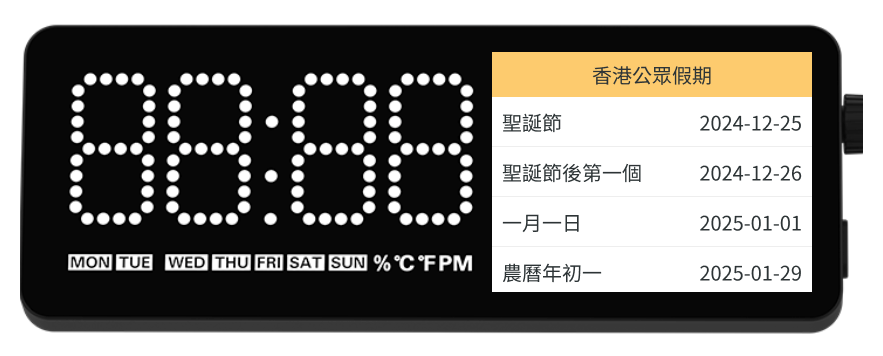
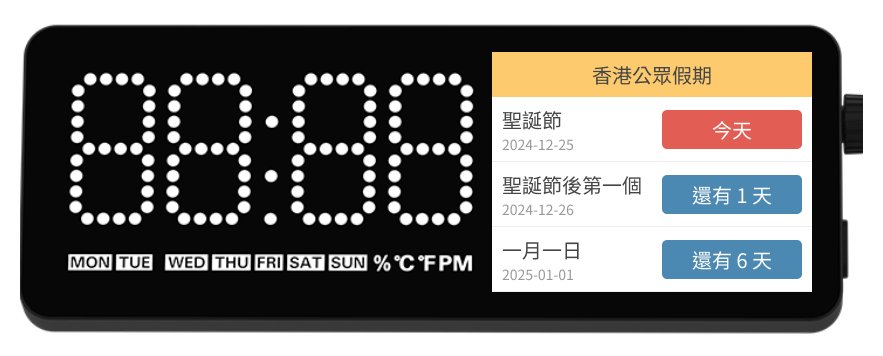
feat(public-holidays): add holiday contdown

diff --git a/public-holidays/src/__init__.py b/public-holidays/src/__init__.py
@@ -1,5 +1,6 @@
 import lvgl as lv
 import clocktime
+import utime
 import ujson
 import net
 import urequests
@@ -34,7 +35,7 @@ previous_focus_index = -1
 def reset_style(style_object):
     style_object.set_bg_opa(lv.OPA.COVER)
     style_object.set_bg_color(lv.color_hex(0xFFFFFF))
-    style_object.set_text_color(lv.color_hex(0x2D3436))
+    style_object.set_text_color(lv.color_hex(0x454545))
     style_object.set_border_width(0)
     style_object.set_pad_all(0)
     style_object.set_radius(0)
@@ -46,7 +47,7 @@ header_style = lv.style_t()
 header_style.init()
 reset_style(header_style)
 header_style.set_bg_color(lv.color_hex(0xFDCB6E))
-header_style.set_text_color(lv.color_hex(0x2D3436))
+header_style.set_text_color(lv.color_hex(0x454545))
 header_style.set_pad_all(12)
 
 # List style
@@ -54,11 +55,18 @@ list_style = lv.style_t()
 list_style.init()
 reset_style(list_style)
 
-# item style
+# Container style
+container_style = lv.style_t()
+container_style.init()
+reset_style(container_style)
+container_style.set_bg_opa(lv.OPA.TRANSP)
+
+# Item style
 item_style = lv.style_t()
 item_style.init()
 reset_style(item_style)
-item_style.set_pad_all(10)
+item_style.set_pad_ver(5)
+item_style.set_pad_hor(10)
 item_style.set_border_color(lv.color_hex(0xEEEEEE))
 item_style.set_border_width(2)
 item_style.set_border_side(lv.BORDER_SIDE.BOTTOM)
@@ -67,6 +75,25 @@ item_style.set_border_side(lv.BORDER_SIDE.BOTTOM)
 focused_item_style = lv.style_t()
 focused_item_style.init()
 focused_item_style.set_bg_color(lv.color_hex(0xf0f0f0))
+
+# Chips style
+chip_style = lv.style_t()
+chip_style.init()
+reset_style(chip_style)
+chip_style.set_radius(5)
+chip_style.set_pad_all(10)
+chip_style.set_text_align(lv.TEXT_ALIGN.CENTER)
+chip_style.set_bg_color(lv.color_hex(0x000000))
+chip_style.set_text_color(lv.color_hex(0xffffff))
+
+# Remarks style
+remarks_style = lv.style_t()
+remarks_style.init()
+reset_style(remarks_style)
+remarks_style.set_pad_ver(2)
+remarks_style.set_bg_opa(lv.OPA.TRANSP)
+remarks_style.set_text_color(lv.color_hex(0x999999))
+remarks_style.set_text_font(lv.font_ascii_14)
 
 # ---------- Functions ----------
 def dprint(msg: str) -> None:
@@ -202,7 +229,12 @@ def focus_item(index: int) -> None:
     previous_focus_index = index
 
 def get_current_date() -> int:
-    """Get and return current date as YYYYMMDD format"""
+    """
+    Get and return current date as YYYYMMDD format
+
+    Returns:
+        int: Current date in YYYYMMDD format.
+    """
     current_time = clocktime.datetime()
     year = current_time[0]
     month = current_time[1]
@@ -210,6 +242,12 @@ def get_current_date() -> int:
 
     formatted_date = '{:04d}{:02d}{:02d}'.format(year, month, day)
     return int(formatted_date)
+
+def days_between(date1: int, date2: int):
+    time_info = (0, 0, 0, 0, 0)
+    datetime1 = (date1 // 10000, date1 % 10000 // 100, date1 % 100) + time_info
+    datetime2 = (date2 // 10000, date2 % 10000 // 100, date2 % 100) + time_info
+    return abs(utime.mktime(datetime1) // (24 * 3600) - utime.mktime(datetime2) // (24 * 3600))
 
 def fetch_and_display_public_holiday(current_date: int) -> None:
     """
@@ -232,7 +270,6 @@ def fetch_and_display_public_holiday(current_date: int) -> None:
     header.update_layout()
 
     container_height = SCREEN_HEIGHT - header.get_height();
-    print(container_height)
 
     # Add list container
     list_container = lv.list(main_scr)
@@ -254,23 +291,39 @@ def fetch_and_display_public_holiday(current_date: int) -> None:
         item = lv.obj(list_container)
         item.add_style(item_style, 0)
         item.add_style(focused_item_style, lv.STATE.FOCUSED)
-        item.set_height(50)
+        item.set_size(SCREEN_WIDTH, container_height // 3)
 
-        name_label = lv.label(item)
+        left_content = lv.obj(item)
+        left_content.add_style(container_style, 0)
+        left_content.align(lv.ALIGN.LEFT_MID, 0, 0)
+        left_content.set_size(140, (container_height // 3) - 12);
+
+        name_label = lv.label(left_content)
         name_label.set_text(event['summary'])
         name_label.set_long_mode(lv.label.LONG.SCROLL_CIRCULAR)
-        name_label.set_width(150)
-        name_label.align(lv.ALIGN.LEFT_MID, 0, 0)
+        name_label.set_style_pad_ver(5, 0)
+        name_label.set_width(140)
+        name_label.align(lv.ALIGN.TOP_LEFT, 0, 0)
 
-        date_label = lv.label(item)
+        date_label = lv.label(left_content)
+        date_label.add_style(remarks_style, 0)
         date_str = event['dtstart'][0]
         date_label.set_text(f"{date_str[:4]}-{date_str[4:6]}-{date_str[6:]}")
         date_label.set_long_mode(lv.label.LONG.SCROLL_CIRCULAR)
-        date_label.set_width(110)
-        date_label.align(lv.ALIGN.RIGHT_MID, 0, 0)
-        date_label.set_style_text_align(lv.TEXT_ALIGN.RIGHT, 0)
+        date_label.set_width(140)
+        date_label.align(lv.ALIGN.BOTTOM_LEFT, 0, 0)
 
-        holiday_count = holiday_count + 1
+        countdown_chip = lv.label(item)
+        countdown_chip.add_style(chip_style, 0)
+        holiday_date = int(event['dtstart'][0])
+        countdown = days_between(current_date, holiday_date)
+        countdown_chip.set_text(f"還有 {countdown} 天" if countdown > 0 else "今天")
+        countdown_chip.set_style_bg_color(lv.color_hex(0x4C89B2) if countdown > 0 else lv.color_hex(0xE25E55), 0)
+        countdown_chip.set_long_mode(lv.label.LONG.SCROLL_CIRCULAR)
+        countdown_chip.set_width(140)
+        countdown_chip.align(lv.ALIGN.RIGHT_MID, 0, 0)
+
+        holiday_count = len(future_events)
 
     lv.screen_load(main_scr)
 
@@ -292,7 +345,6 @@ async def on_start():
         last_api_call_date = current_date
         fetch_and_display_public_holiday(current_date)
     except Exception as e:
-        print(e)
         display_error_screen(f"Error occured on start: {e}")
 
 async def on_running_foreground():
